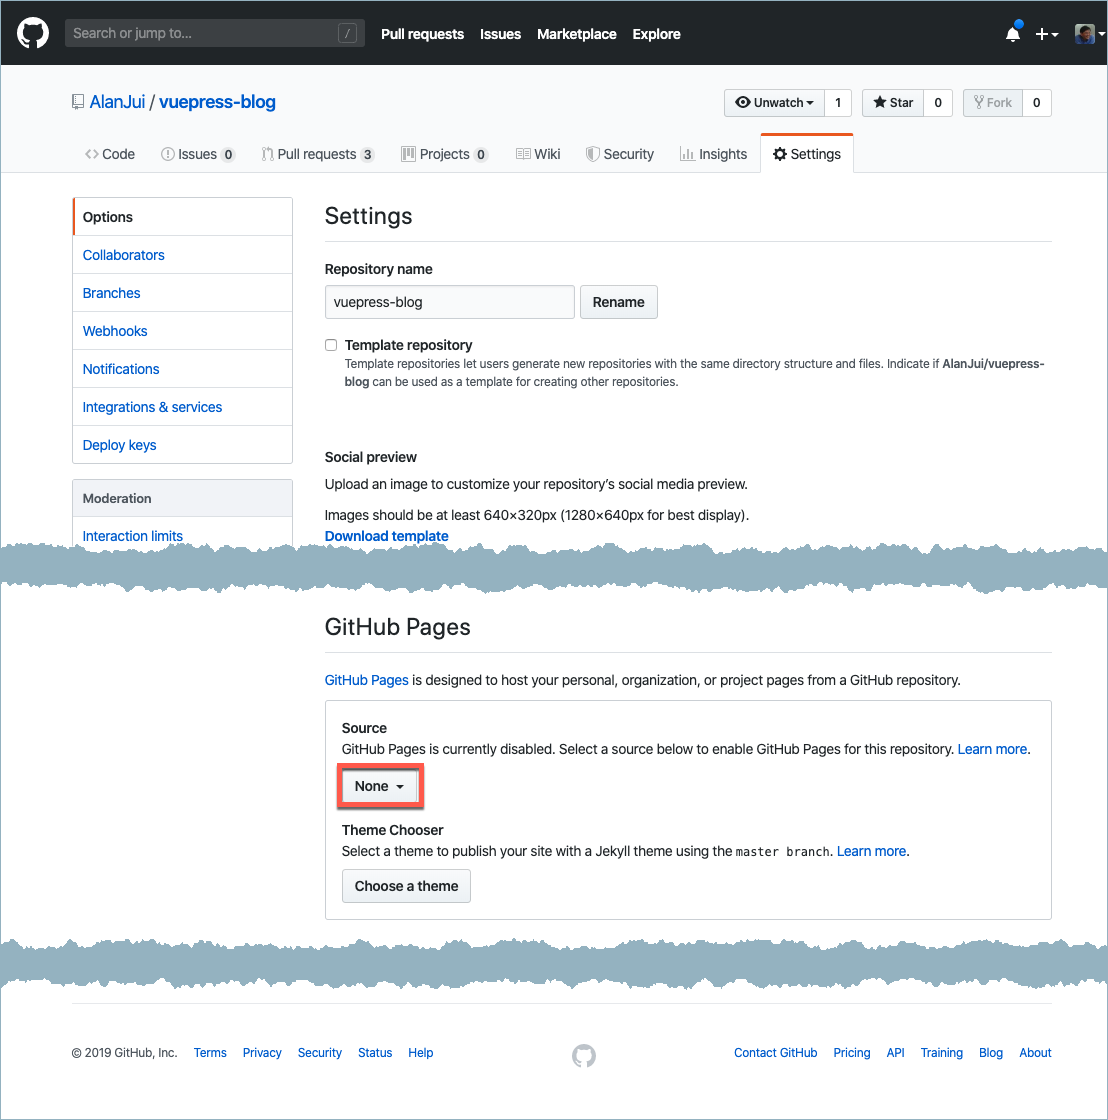
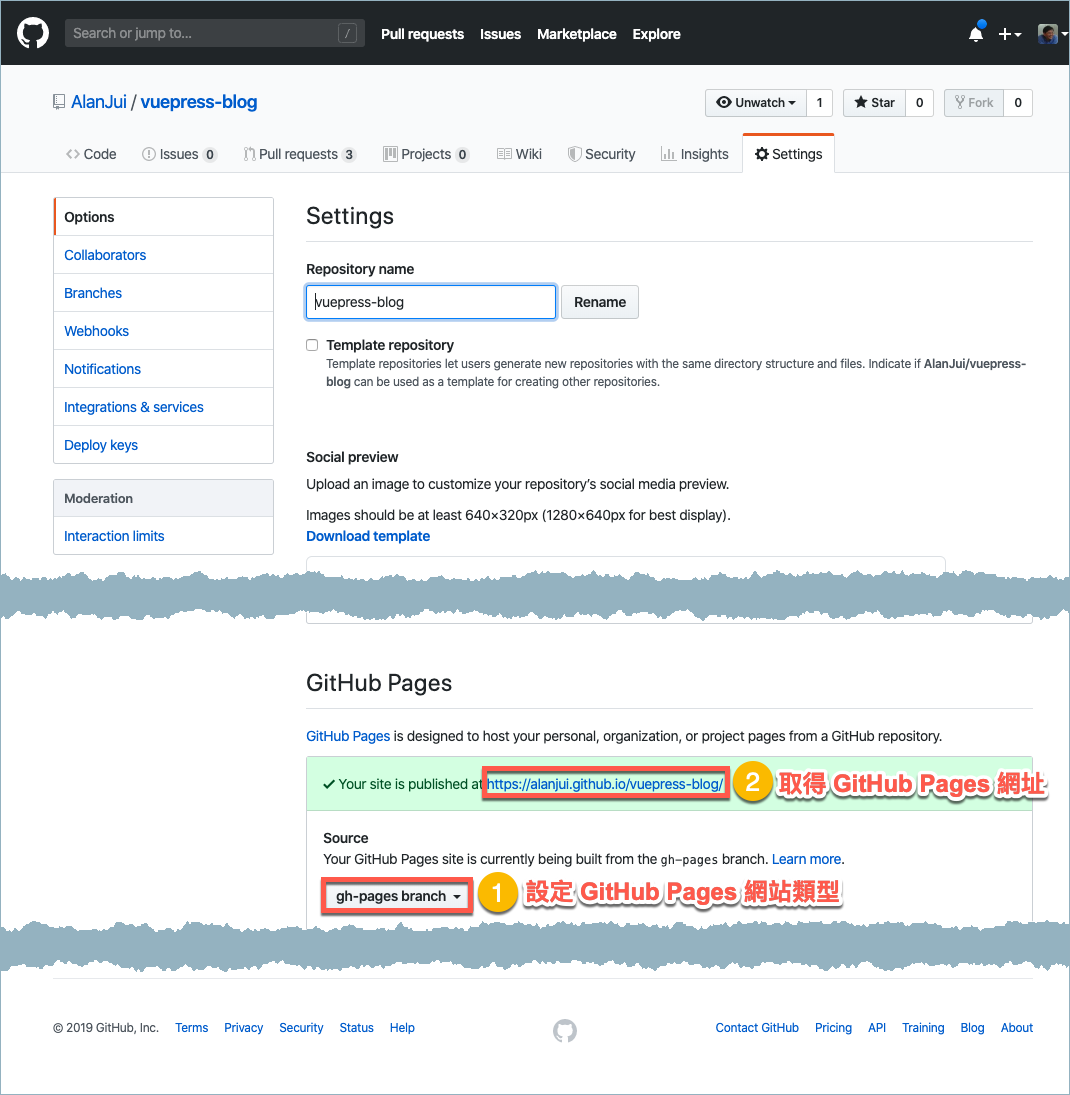
修訂《操作指引》

diff --git a/docs/guide/README.md b/docs/guide/README.md
@@ -4,10 +4,6 @@ sidebar: auto
 
 # 操作指引
 
-::: warning 小心留意
-《操作指引》文件尚未完成編撰，本處所見內容僅是示意用舉例，非本部落真正之操作指引。
-:::
-
 ## 簡介
 
 本操作指引用於導引使用者，知曉如何透過本 [VuePress 部落格模版](https://github.com/AlanJui/vuepress-blog)，創造個人專屬之部落格。對於模版未盡滿意處，請參考 [VuePress](https://vuepress.vuejs.org) 官網技術文件，自行擴展功能。
@@ -126,23 +122,32 @@ sidebar: auto
 
 ### 文章發佈作業
 
-以 GitHub Pages 為例，說明於個人端完成編輯之部落格文章，如何發佈到 GitHub 網站（此時之 GitHub 網站等同 HTTP 伺服器）。
+GitHub 網站採用 `GitHub Pages` 技術，可令 GitHub 的每個**容器（Repo）**，亦是一個 `HTTP 伺服器` ，能顯示`靜態網頁`。基於這項特性，我們可將 `GitHub 容器`當成是：能提供靜態網頁顯示的`網站`。
 
-參考 [GitHub Pages 指引](https://guides.github.com/features/pages/)，完成應有之設定，並取得 GitHub 網址（參考下述提示決定要用「個人專用型網址」，還是「專案專用型網址」）。
+> 對於 GitHub 的**容器（Repo）** ，亦有人喜歡稱之為**專案**。
 
-::: tip
-個人專用型網址： https://《UserName》.github.io/
+所以，在應用上，我們可以在個人端的電腦，先執行部落格的編輯作業，待完成後，再將之佈署到 GitHub Pages 網站。
 
->【範例】： https://alanjui.github.io/
+以下將說明：應如何操作，將原本存放在個人端電腦中的部落格文章，發佈到 GitHub Pages 網站。
 
+::: tip GitHub Pages 網站類型
+**個人專用型： https://《UserName》.github.io/**
 
-專案專用型網址： https://《UserName》.github.io/《Repo》/
+【網址範例】： https://alanjui.github.io/
 
->【範例】： https://alanjui.github.io/vuepress-blog/
+**容器專用型： https://《UserName》.github.io/《Repo》/**
+
+【網址範例】： https://alanjui.github.io/vuepress-blog/
 :::
 
-![](../../images/GitPagesByProject.png)
+GitHub 容器之`預設`，並未啟用 `GitHub Pages 網站`。所以，想要讓某個 GitHub 容器亦能提供網站功能，有些設定工作得先搞定。
 
+上述之工作，請參考 **GitHub Pages 指引文件**： [Getting Started with GitHub Pages](https://guides.github.com/features/pages/) 之說明，依 GitHub Pages 網站類型，完成應有之設定；並取得其 `GitHub Pages 網址`。
+
+![GitHub Pages 設定畫面](../../images/GitPagesByProject.png)
+
+
+【操作步驟】：
 
 1. 依上述之說明，先取得部落格佈署處之 GitHub 網址，再透過「文字編器」填入 `deploy.sh` 檔案中。
 
